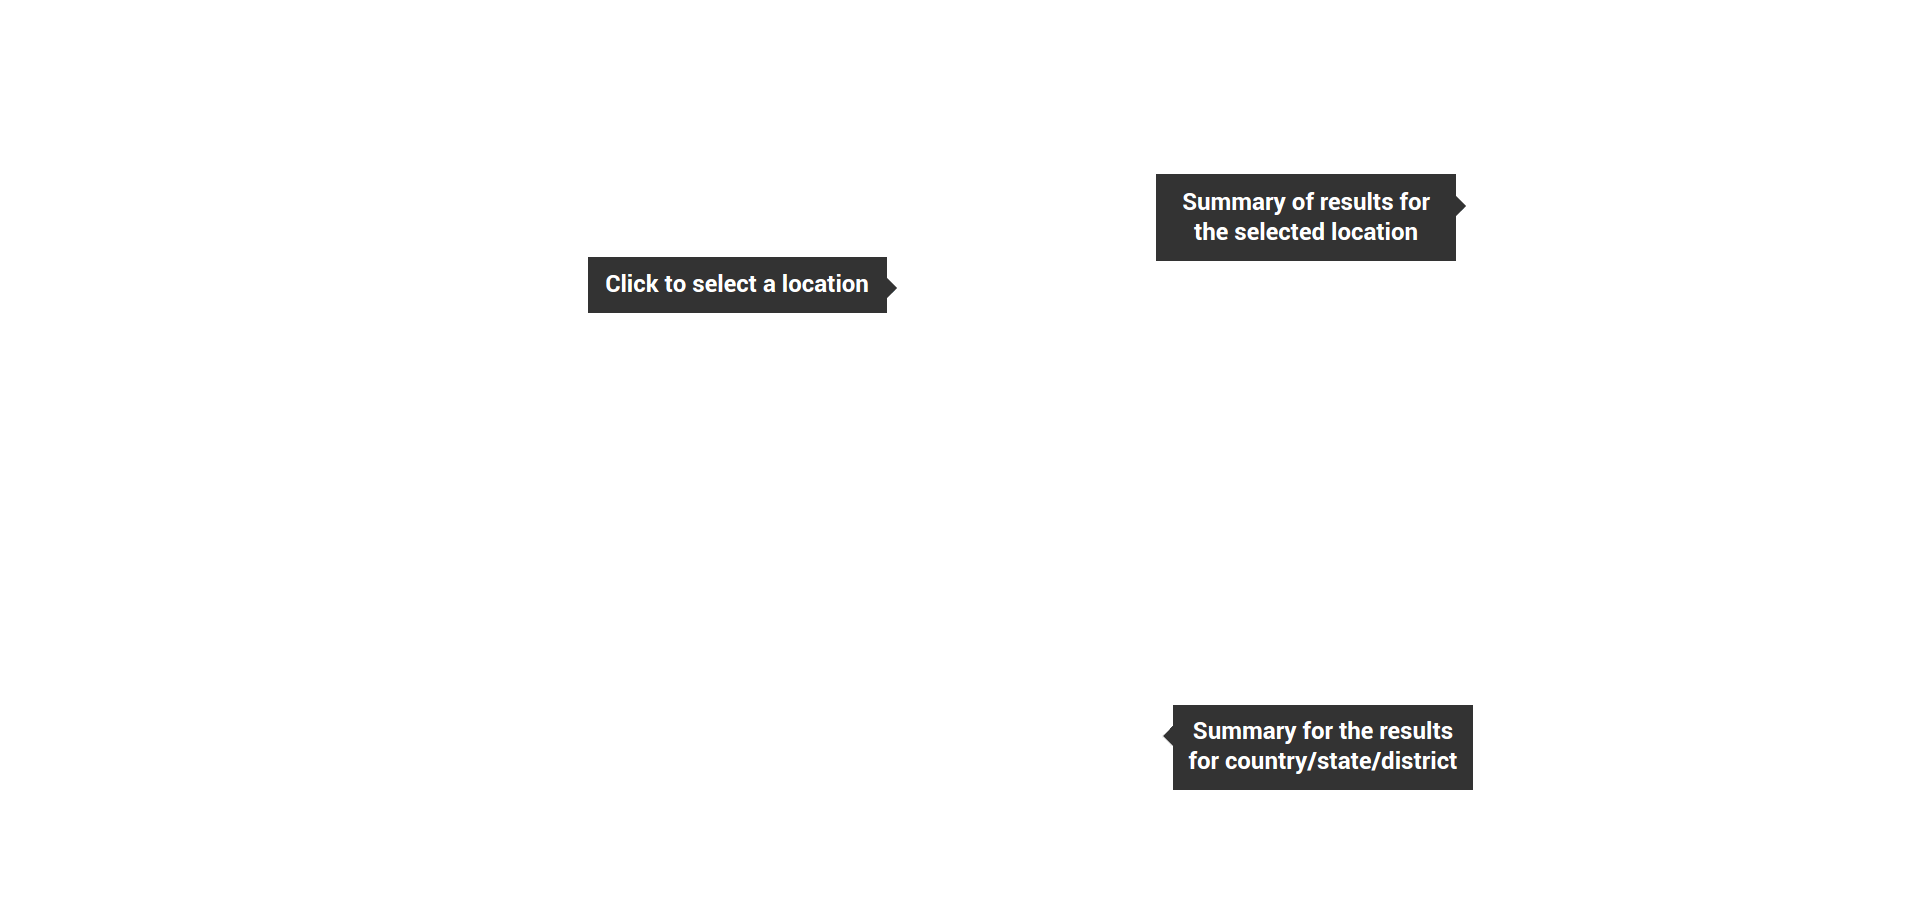
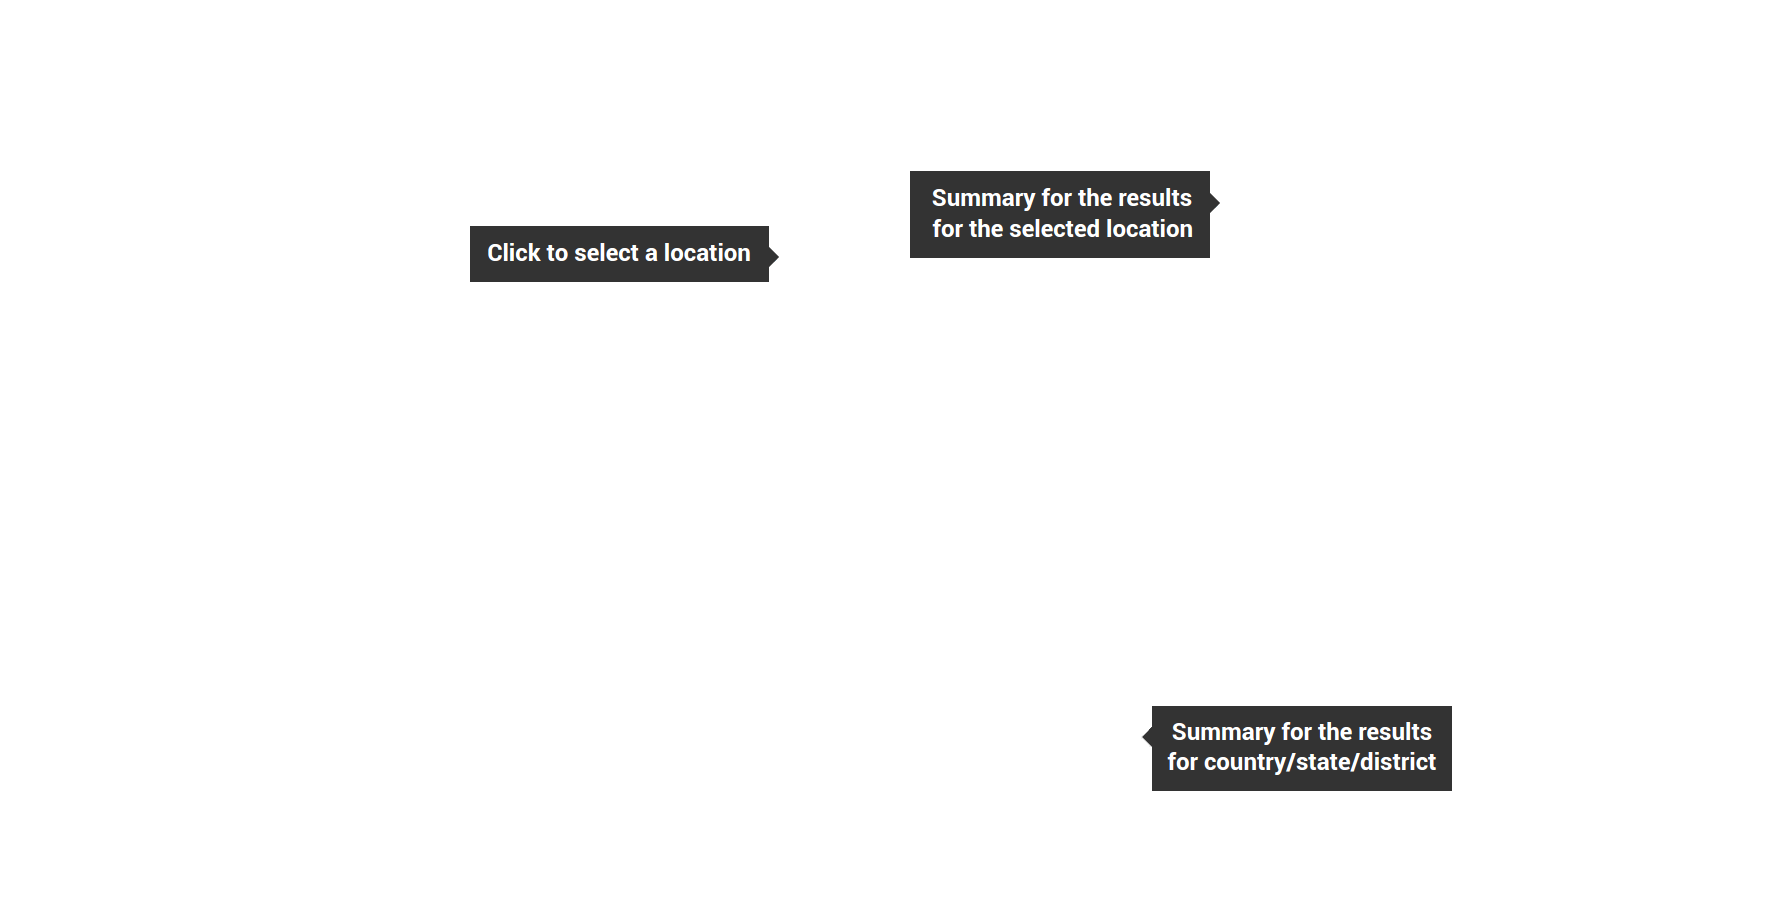
new snapshots + css tweaks

Changed region(s): [[0.4966, 0.1826, 0.776, 0.3043], [0.5897, 0.7609, 0.838, 0.8826], [0.2483, 0.2435, 0.4656, 0.3652]]

diff --git a/style/landing.css b/style/landing.css
@@ -248,15 +248,16 @@ a.dashboard-button:hover, a.guide-button:hover {
   vertical-align: middle;
 }
 .main-image {
-  vertical-align: middle;
+  vertical-align: top;
   width: 100%;
+  height: 100%;
 }
 .overlay {
   position: absolute;
-  padding-top: 0;
-  margin-top: 0;
-  bottom: 0;
+  top: 0;
   right: 0;
+  width: 100%;
+  height: 100%;
 }
 
 /* SMARTPHONES */
